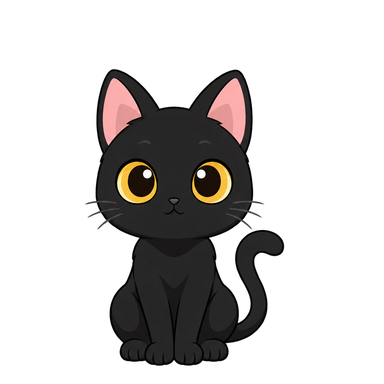
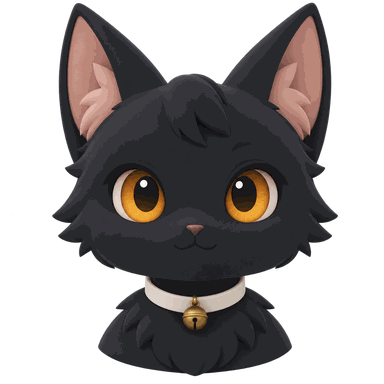
feat(redesign): redraw the mascots as a sprite sheet and centre the record document (#137)
Four notes from the owner on the second revision.

The generated chibi pair was still a flat vector cartoon with a black
outline, which reads as clip art beside a photographic hero. The set is
redrawn as soft-matte 3D characters against the art direction of PandAI,
another of the owner's projects, and there are eight poses now rather
than two: bust, reading, considering and greeting for Tororo; bust, on
the edge, flagging and asleep for Hijiki. They ship as one sprite sheet,
1152 x 576 in 288 px cells, and index.html shows it by driving
background-position over the real file rather than a picture of it.

The hero carries one cat instead of two. Hijiki is draped over the line
where the hero ends, body on the light ground and both front paws
hanging across the ticker band below. The alpha channel says where the
invisible ledge falls, at 66.3% of the image height, so the offset is
computed from the artwork rather than nudged into place. That let the
video reframe come down from 1.26x to 1.14x; a script asserts the
generator's sparkle mark stays outside the visible crop at sixty
viewport sizes, and the mark is still untouched in hero.mp4.

The record document was capped at a 60 rem measure with no auto margin,
so it hung off the left edge of its 100 rem container and left a gutter
of up to 320 px on the right alone.

The empty state takes the sleeping pose on a disc of --sunk, because a
black cat on the dark theme's card is within a few points of the same
[…]

diff --git a/docs/redesign/index.html b/docs/redesign/index.html
@@ -347,6 +347,41 @@
         color: var(--dim);
       }
 
+      /* The sheet is shown by driving background-position over the real file, so the tiles below
+         are the sprite sheet rather than a picture of it. Four columns, two rows, square cells. */
+      .sprites {
+        display: grid;
+        grid-template-columns: repeat(4, minmax(0, 1fr));
+        gap: 1rem;
+        margin-top: 2rem;
+      }
+
+      .sprites figure {
+        margin: 0;
+      }
+
+      .sprites .cell {
+        aspect-ratio: 1;
+        border: 1px solid var(--line);
+        border-radius: 6px;
+        background-color: #e3e6ea;
+        background-image: url('mascot-sprites.png');
+        background-repeat: no-repeat;
+        background-size: 400% 200%;
+        background-position: calc(var(--col) * 33.3333%) calc(var(--row) * 100%);
+      }
+
+      .sprites figcaption {
+        margin-top: 0.55rem;
+        font-size: 0.8125rem;
+        color: var(--dim);
+      }
+
+      .sprites figcaption span {
+        display: block;
+        color: var(--faint);
+      }
+
       .callout {
         margin-top: 1.75rem;
         padding: 1.25rem 1.4rem;
@@ -376,6 +411,10 @@
         .shots {
           grid-template-columns: minmax(0, 1fr);
         }
+
+        .sprites {
+          grid-template-columns: repeat(2, minmax(0, 1fr));
+        }
       }
     </style>
   </head>
@@ -386,8 +425,8 @@
           <p><b>Direction C is chosen.</b> AlaskanTuna picked it on 3 September and it has since been revised against
           their notes: the landing takes SolarSim's structure and folds How It Works, Sample Report, Pricing and Trust
           into one page behind a generated hero video; sign-in loses the shared-workspace note and centres both cards;
-          the record workspace gets a topbar and a drawer; and Tororo and Hijiki are used in seven places rather than
-          one. A and B are kept below as the record of what was decided against.</p>
+          the record workspace gets a topbar and a drawer; and Tororo and Hijiki were redrawn and are placed where they
+          carry information rather than decoration. A and B are kept below as the record of what was decided against.</p>
           <a href="c-two-readers.html">Open direction C →</a>
         </div>
         <h1>Three ways out of the wireframe.</h1>
@@ -612,6 +651,72 @@
               <span class="go"><a href="c-two-readers.html">Open direction C →</a></span>
             </div>
           </article>
+        </div>
+      </section>
+
+      <section>
+        <h2>The mascot set</h2>
+        <div class="prose">
+          <p>
+            The first pass drew Tororo and Hijiki as flat vector cartoons with black outlines, which read as clip art
+            next to everything else on the page. They are redrawn here as soft-matte 3D characters — no outlines, one
+            diffuse key light from the upper left, chibi proportions, pointed neko ears — matching the art direction of
+            <strong>PandAI</strong>, the mascot set AlaskanTuna made for another project. Eight poses, on one sprite
+            sheet at <span class="mono">mascot-sprites.png</span>: 1152 × 576, four columns by two rows, 288 px cells,
+            Tororo on the top row and Hijiki on the bottom.
+          </p>
+          <p>
+            Three of the eight are placed in direction C. The rest exist because a state that needs a character later —
+            a queued check, a flagged item, a first run — should not need a new render on the day.
+          </p>
+        </div>
+
+        <div class="sprites">
+          <figure>
+            <div class="cell" style="--col: 0; --row: 0" role="img" aria-label="Tororo, portrait bust"></div>
+            <figcaption>Tororo, bust <span>Reader A avatar, evidence panel</span></figcaption>
+          </figure>
+          <figure>
+            <div class="cell" style="--col: 1; --row: 0" role="img" aria-label="Tororo holding a sheet of paper"></div>
+            <figcaption>Tororo, reading <span>Unplaced. For a check in progress</span></figcaption>
+          </figure>
+          <figure>
+            <div class="cell" style="--col: 2; --row: 0" role="img" aria-label="Tororo with a paw at its chin"></div>
+            <figcaption>Tororo, considering <span>Unplaced. For Possible Ambiguity</span></figcaption>
+          </figure>
+          <figure>
+            <div class="cell" style="--col: 3; --row: 0" role="img" aria-label="Tororo waving"></div>
+            <figcaption>Tororo, greeting <span>Unplaced. For a first run</span></figcaption>
+          </figure>
+          <figure>
+            <div class="cell" style="--col: 0; --row: 1" role="img" aria-label="Hijiki, portrait bust"></div>
+            <figcaption>Hijiki, bust <span>Reader B avatar, evidence panel</span></figcaption>
+          </figure>
+          <figure>
+            <div class="cell" style="--col: 1; --row: 1" role="img" aria-label="Hijiki draped over a ledge"></div>
+            <figcaption>Hijiki, on the edge <span>Landing hero, over the section boundary</span></figcaption>
+          </figure>
+          <figure>
+            <div class="cell" style="--col: 2; --row: 1" role="img" aria-label="Hijiki holding a red pen"></div>
+            <figcaption>Hijiki, flagging <span>Unplaced. For Possible Key Error</span></figcaption>
+          </figure>
+          <figure>
+            <div class="cell" style="--col: 3; --row: 1" role="img" aria-label="Hijiki asleep"></div>
+            <figcaption>Hijiki, asleep <span>Empty state, no records yet</span></figcaption>
+          </figure>
+        </div>
+
+        <div class="callout">
+          <h3>Where the hero cat sits, and why there</h3>
+          <p>
+            Hijiki is draped over the line where the hero ends: body on the light ground, both front paws hanging across
+            the ticker band below it. The pose was rendered around an invisible ledge falling at 66.3% of the image
+            height, so the offset that puts the paws on the boundary is computed from the artwork rather than nudged
+            into place. That corner is also where the hero video carries the generator's own sparkle mark, at 91% across
+            and 83% down its frame. The mark is <strong>not</strong> removed from
+            <span class="mono">hero.mp4</span>; the video is framed so it falls outside the visible crop, which was
+            checked at sixty viewport sizes from 768 × 700 to 2560 × 1440.
+          </p>
         </div>
       </section>
 

diff --git a/docs/redesign/c-two-readers.html b/docs/redesign/c-two-readers.html
@@ -243,7 +243,9 @@
         padding-top: 4.25rem;
         display: flex;
         align-items: center;
-        overflow: hidden;
+        /* Not overflow: hidden. Hijiki hangs past the bottom edge on purpose, and .hero-media
+           does its own clipping, so nothing else here needs the section to clip. */
+        --cat-w: clamp(8rem, 17vw, 16rem);
       }
 
       .hero-media {
@@ -257,13 +259,17 @@
           linear-gradient(160deg, #f7f6f3 0%, #e9e7e1 46%, #dedbd3 100%);
       }
 
+      /* The clip carries the generator's own sparkle mark at 91% across and 83% down its frame.
+         Scaling from the top left pushes that corner past the right edge at every viewport the
+         page supports, and costs 14% of the frame rather than the 26% the first pass took. The
+         mark is not removed from hero.mp4; it is framed out of the shot. */
       .hero-media video,
       .hero-media img {
         width: 100%;
         height: 100%;
         object-fit: cover;
         object-position: left top;
-        transform: scale(1.26);
+        transform: scale(1.14);
         transform-origin: top left;
       }
 
@@ -415,43 +421,32 @@
         flex: none;
       }
 
-      /* MASCOT 1 of 3 — the hero. The two cats ARE the two readers, and until now they lived
-         on one 240x160 stage on one authenticated screen that a judge may never open. Here
-         they are the first thing a visitor meets, at the size the idea deserves. */
-      .hero-cats {
+      /* MASCOT 1 of 3 — the hero. Hijiki is draped over the line where the hero ends: body on
+         the light ground above it, both front paws hanging down across the ticker band below.
+         The pose was rendered around an invisible ledge that falls at 66.3% of the image
+         height, so the negative offset is 34.5% of the width (0.337 x 1.025 aspect), not a
+         number found by nudging. Tororo is not here — one cat leaning on the edge is a
+         character, two lined up on it is a mascot shelf. */
+      .hero-cat {
         position: absolute;
-        right: clamp(1rem, 4vw, 4rem);
-        bottom: 0;
-        display: flex;
-        align-items: flex-end;
-        gap: clamp(0.5rem, 2vw, 2rem);
+        right: clamp(1rem, 4vw, 4.5rem);
+        bottom: calc(var(--cat-w) * -0.345);
+        width: var(--cat-w);
+        height: auto;
         pointer-events: none;
         z-index: 1;
+        filter: drop-shadow(0 16px 20px rgb(20 24 31 / 0.32));
+        animation: catgrip 1.1s var(--ease) 0.45s both;
       }
 
-      .hero-cats img {
-        width: clamp(6rem, 11vw, 10.5rem);
-        height: auto;
-        filter: drop-shadow(0 2px 3px rgb(255 255 255 / 0.5)) drop-shadow(0 18px 26px rgb(20 24 31 / 0.28));
-      }
-
-      .hero-cats .a {
-        animation: catrise 1s var(--ease) 0.4s both;
-      }
-
-      .hero-cats .b {
-        animation: catrise 1s var(--ease) 0.8s both;
-      }
-
-      /* Offset by design: DESIGN.md says the cats never move in unison, because synchronised
-         readers would say the opposite of what the product claims. */
-      @keyframes catrise {
+      /* It pulls itself up onto the edge rather than fading in on the spot. */
+      @keyframes catgrip {
         from {
-          transform: translateY(22%);
+          transform: translateY(26%) rotate(-2.5deg);
           opacity: 0;
         }
         to {
-          transform: translateY(0);
+          transform: translateY(0) rotate(0);
           opacity: 1;
         }
       }
@@ -1389,10 +1384,12 @@
         padding: 1.5rem 1rem 2rem;
       }
 
-      /* The record is a document, so it keeps a readable measure inside the wide container
-         rather than stretching to 1600 px. */
+      /* The record is a document, so it keeps a readable measure rather than stretching to the
+         container's 1600 px. margin-inline: auto is what centres it: without it the measure
+         caps the width and the whole page hangs off the left edge of the content box. */
       .doc {
         max-width: 60rem;
+        margin-inline: auto;
       }
 
       /* ---- MakanLah's footer -------------------------------------------------------- */
@@ -1577,7 +1574,8 @@
       }
 
       /* MASCOT 3 of 3 — the empty state. A screen with nothing on it is the one place a
-         product can afford a picture. */
+         product can afford a picture, and the pose has to earn it: a reader with nothing to
+         read is asleep, which is the state the screen is reporting. */
       .empty {
         display: grid;
         justify-items: center;
@@ -1587,10 +1585,16 @@
         border-radius: 1.5rem;
       }
 
+      /* The sleeping pose is a black cat and the dark theme's card is within a few points of it,
+         so the disc is the ground it needs to read against rather than decoration. --sunk is a
+         step off --raise in both themes, which is exactly the separation this needs. */
       .empty img {
-        width: 8rem;
-        height: 8rem;
+        width: 9.5rem;
+        height: 9.5rem;
+        padding: 0.75rem;
         object-fit: contain;
+        border-radius: 999px;
+        background: var(--sunk);
       }
 
       .to-top {
@@ -1623,10 +1627,8 @@
           margin-left: 0;
         }
 
-        .hero-cats {
-          position: static;
-          justify-content: flex-start;
-          margin-top: 2rem;
+        .hero {
+          --cat-w: clamp(7rem, 22vw, 11rem);
         }
 
         .steps,
@@ -1738,10 +1740,7 @@
         </div>
       </div>
 
-      <div class="hero-cats" aria-hidden="true">
-        <img class="a" src="cat-tororo.png" alt="" />
-        <img class="b" src="cat-hijiki.png" alt="" />
-      </div>
+      <img class="hero-cat" src="cat-hijiki-ledge.png" alt="" aria-hidden="true" />
     </section>
 
     <div class="marquee">
@@ -2412,7 +2411,7 @@
             </div>
 
             <div class="empty" style="margin-top: 2rem">
-              <img src="cat-hijiki.png" alt="" />
+              <img src="cat-hijiki-sleep.png" alt="" />
               <h3 style="margin-top: 1rem; font-size: 1.25rem">No Records Yet</h3>
               <p style="margin-top: 0.5rem; max-width: 36ch; color: var(--ink-2)">
                 Type a paper and two readers will sit it before your learners do.

diff --git a/docs/redesign/README.md b/docs/redesign/README.md
@@ -21,6 +21,8 @@ recommendation, and links to each. Everything is static: no build step, no serve
 | [`c-two-readers.html`](c-two-readers.html)   | Direction C. Same three screens                                                 |
 | `_shared.css`                                | The band that labels each screen. Frame chrome only, shared by nothing else     |
 | `current-*.jpg`                              | The deployed screens as they were on 3 September, so the diagnosis is evidenced |
+| `mascot-sprites.png`                         | The eight-pose mascot sheet. 1152 x 576, four columns by two rows, 288 px cells |
+| `cat-*.png`                                  | The four poses direction C places, cut from the same renders as the sheet       |
 
 Each direction page is one scroll through three screens, separated by a labelled black band. The band is not part of any
 design; it is there so a screen can be judged without the label competing with it.
@@ -81,13 +83,57 @@ Four more notes from the owner, after seeing the first revision.
 
 ### The hero clip carries a watermark, and it is still there
 
-Gemini bakes a four-point sparkle into the frame at roughly 91% across and 83% down — its AI-content mark. The hero now
-shows the **top-left 80%** of the clip, which moves the mark out of view and is also the better crop: the nib and the
-marked bubble sit there and the lower right is empty paper.
+Gemini bakes a four-point sparkle into the frame at roughly 91% across and 83% down — its AI-content mark. The hero
+scales the clip **1.14x from its top left**, which carries that corner past the right edge of the visible crop. It costs
+14% of the frame rather than the 26% the first pass spent, and the better half is what survives: the nib and the marked
+bubble sit top-left, the lower right is empty paper.
+
+This is checked rather than assumed. A script walks the live DOM at **sixty viewport sizes**, from 768 x 700 to 2560 x
+1440, computes where the sparkle lands under `object-fit: cover` plus the element transform, and asserts its bounding
+box falls outside the media box. All sixty are clean.
 
 **The mark has not been removed from `hero.mp4`.** Stripping a provider's provenance mark from an asset is a decision
 about how the project represents its own material, not a formatting choice, so it is left for the owner to make
 deliberately. Anyone reframing or reusing this clip should know the mark is in the file.
+
+## The third revision
+
+Four more notes from the owner, after seeing the second revision.
+
+- **The cats are redrawn.** The generated chibi pair was still a flat vector cartoon with a black outline, which reads
+  as clip art beside a photographic hero. The set is now soft-matte 3D: no outlines, one diffuse key light from the
+  upper left, chibi proportions, pointed neko ears, and a matte finish with no specular. The art direction is
+  **PandAI**, the mascot set the owner made for another project, named as the reference rather than approximated from
+  memory
+- **There is a sprite sheet.** Eight poses on `mascot-sprites.png`, Tororo on the top row and Hijiki on the bottom, four
+  columns each: bust, reading, considering and greeting for Tororo; bust, on the edge, flagging and asleep for Hijiki.
+  `index.html` shows the sheet by driving `background-position` over the real file, so what is on that page is the sheet
+  working rather than a picture of it
+- **The hero carries one cat, not two.** Hijiki is draped over the line where the hero ends: body on the light ground,
+  both front paws hanging across the ticker band below it
+- **The record workspace centres its content.** `.doc` capped the measure at 60 rem without an auto margin, so the whole
+  document hung off the left edge of a 100 rem container and left a gutter of up to 320 px on the right alone
+
+### Placing the hero cat
+
+The pose was rendered around an invisible ledge, and the alpha channel says where it falls: scanning row coverage, the
+body ends and the two hanging paws begin at **66.3%** of the image height. So the offset that puts the paws on the
+boundary is `calc(var(--cat-w) * -0.345)` — that fraction times the 1.025 aspect ratio — computed from the artwork
+rather than nudged until it looked right. Resizing the cat keeps the grip on the line.
+
+Only three of the eight poses are placed: the hero, the two evidence-panel avatars, and the empty state. The empty state
+takes the sleeping pose, because a reader with nothing to read is asleep and that is the state the screen is reporting.
+The other five exist so that a screen needing a character later does not need a new render on the day.
+
+Two notes for anyone re-exporting these. The empty state's mascot sits on a disc of `--sunk`, because the sleeping pose
+is a black cat and the dark theme's card is within a few points of the same value; the disc is the ground it needs, not
+decoration. And the PNGs are colour-quantised to 255 entries but keep their **original alpha channel byte for byte** — a
+straight palette conversion folds the transparent background into a low-alpha entry, which is invisible on a light
+ground and a pale square around the cat on a dark one.
+
+**The two cats are not drawn in one consistent fur language.** The busts and Tororo reading came back tufted; the
+remaining five came back smooth. Every pose that shares a screen with another shares its treatment, so nothing on screen
+is mismatched, but anyone extending the set should generate against the smooth renders and expect to redo the busts.
 
 ## What the diagnosis rests on
 
@@ -126,6 +172,10 @@ Re-running it after C's revision found eight more contrast failures introduced b
 those are fixed the same way. Two findings are new and declined: `marquee` on the trust band, which is the structure the
 owner asked for and which the reduced-motion reset in `_shared.css` stops outright; and one `tight-leading`, which is a
 4.75 rem display line at 1.05 and correct at that size.
+
+The third revision was measured against that same baseline rather than reported on its own: the detector returns the
+**identical set of findings** on `c-two-readers.html` and `index.html` before and after it, rule for rule and count for
+count, so the mascot work and the centring fix introduced nothing new.
 
 All four pages render with **zero page errors and no horizontal overflow** at 1440 px and 853 px.
 
